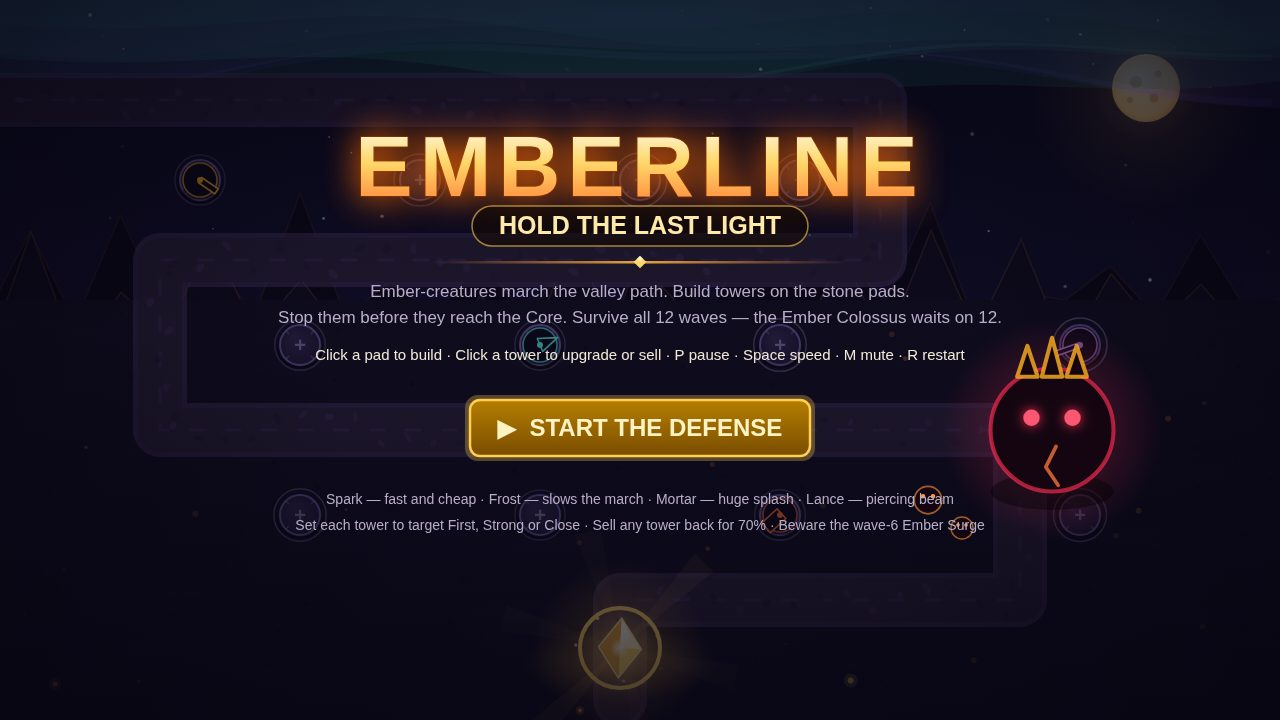
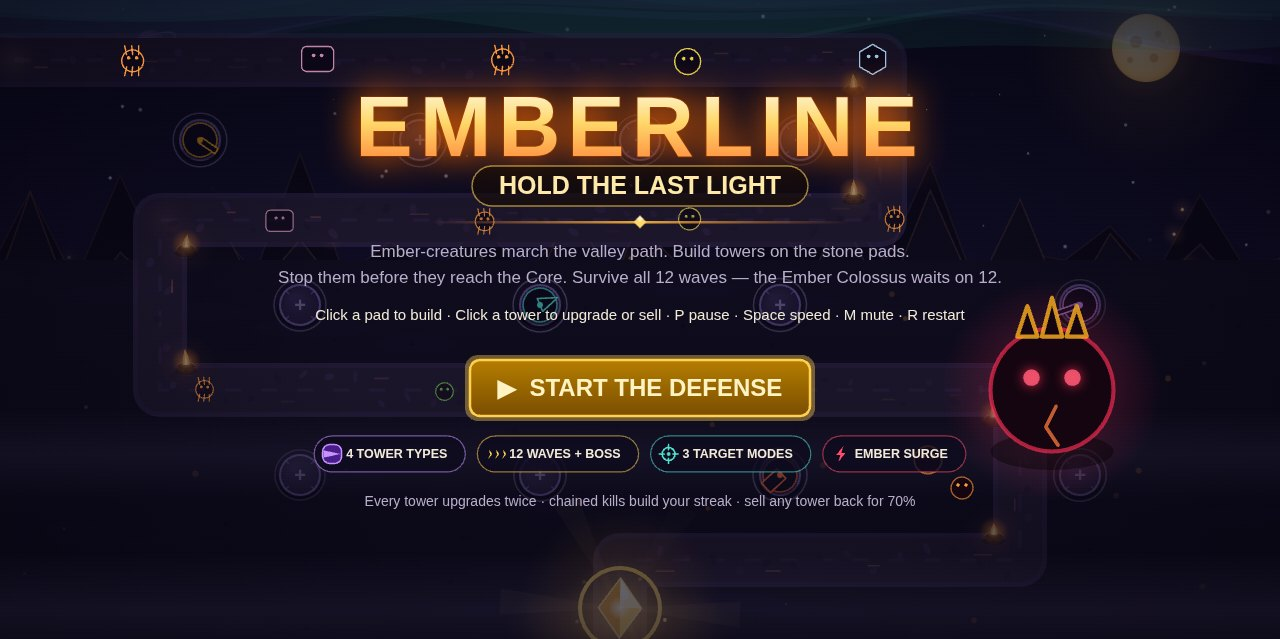
v4 finish: retaken screenshots — marching-silhouette title with feature badges, wave-9 column under fire past lit braziers and gold-trim towers, named Colossus bar on wave 12, sparkling victory emblem

diff --git a/README.md b/README.md
@@ -15,7 +15,10 @@ Strongest or Closest enemy, and sold back for 70% of its cost. Five enemy types 
 scuttlers, armoured brutes, splitters that break in two, regenerators, and the Aegis,
 whose shield aura blunts damage to nearby allies), a telegraphed Ember Surge rush on
 wave 6, kill-streak announcements with gold bonuses, synthesized WebAudio sound
-effects, and a fixed-timestep simulation under a 60 fps render loop.
+effects, and a fixed-timestep simulation under a 60 fps render loop. While you plan,
+a preview panel above the start button shows the next wave's composition in enemy
+colours; while the Colossus lives, a named boss health bar under the HUD tracks
+the fight. Lit braziers mark every bend of the road, and maxed towers wear gold trim.
 
 ## Run it
 
